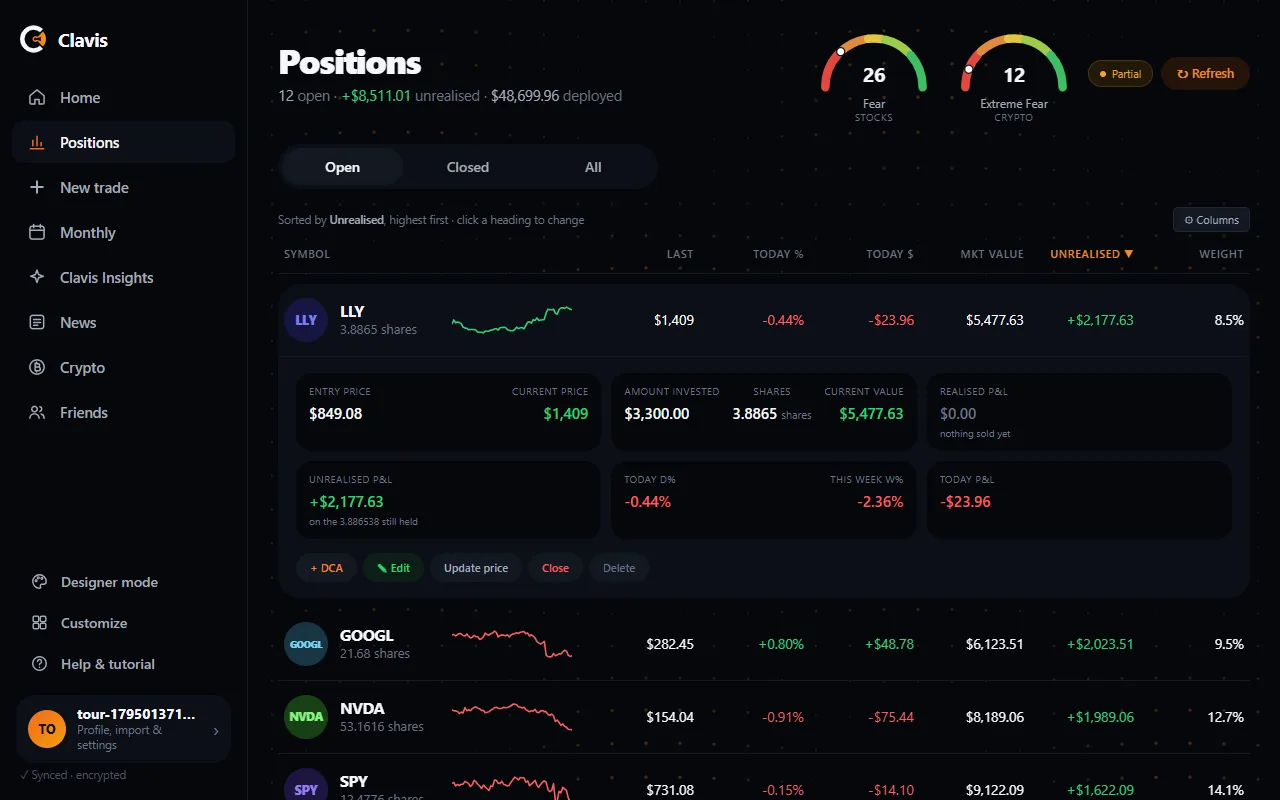
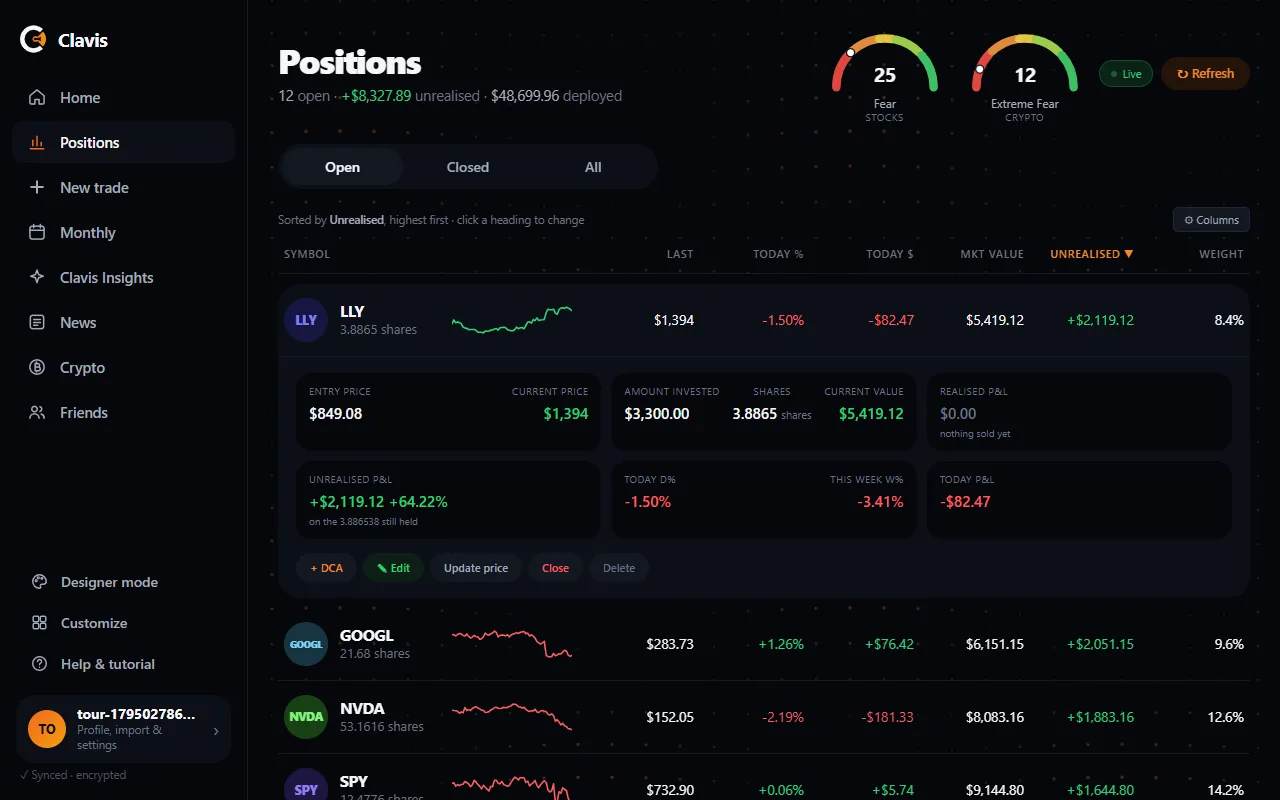
feat: the fox guides the app; phone Home tidied; % on unrealised P&L
Clavis the fox now appears where the brand brief puts the guide, from one
shared drawing (ui/art/fox.js): the analyst and Your feedback in Clavis
Insights, the state-of-mind question, empty screens (no holdings, no closed
trades), the guest welcome and the tutorial. Never beside losses, core
numbers, money or security.

Phone Home: fear & greed at the top and smaller, as on Positions; the
allocation ring smaller, and it no longer restarts its spin-in animation on
every price refresh (it looked half drawn). An opened position shows its
unrealised P&L in % beside the dollars. Settings no longer offers data keys
on the website, and keys saved earlier are not used there.

diff --git a/styles/clavis.css b/styles/clavis.css
@@ -389,7 +389,7 @@ body.landing-open{overflow:hidden}
 #allocCard .alloc-pct{margin-left:auto;color:var(--text);font-weight:700}
 @media (max-width:720px){
   #allocCard{width:100%;margin-top:6px}
-  #allocCard .alloc-chart{width:150px;height:150px}
+  #allocCard .alloc-chart{width:118px;height:118px}
 }
 
 /* ── Monthly ── */
@@ -438,7 +438,7 @@ body.landing-open{overflow:hidden}
   /* Home: one column, in the mock-up's order. */
   #home.page.active{display:flex;flex-direction:column;gap:18px}
   #home .hero{order:1;margin:0}
-  #home #homeTopbar{order:2;margin:0}
+  #home #homeTopbar{order:0;margin:0}
   #home .kpi-row{order:3;margin:0}
   #homeHoldings{order:4}
   #home .hero-value{font-size:48px}
@@ -638,3 +638,36 @@ body.landing-open{overflow:hidden}
 
 /* Settings: your own data keys, folded away on the website */
 .set-keys summary{cursor:pointer;font-size:13px;font-weight:600;color:var(--text2);margin:6px 0 10px}
+
+/* Phones: fear & greed sits at the top of Home, as on Positions, and smaller;
+   the allocation ring is smaller too. */
+@media (max-width:720px){
+  #homeTopbar{display:flex!important;align-items:center;justify-content:space-between;gap:8px;flex-wrap:wrap}
+  #homeTopbar .topbar-right{display:flex!important;width:100%;align-items:center;justify-content:space-between;gap:8px}
+  #homeTopbar .gauges{order:0;gap:4px}
+  #homeTopbar .live-pill{order:1;margin-left:auto}
+  #homeTopbar .topbar-btn-warn{order:2}
+  .gauges .gauge{width:70px;height:38px}
+  .gauges .gauge-mood{font-size:10.5px}
+  .gauges .gauge-name{font-size:8.5px}
+  #allocCard .alloc-count b{font-size:12.5px}
+  #allocCard .alloc-count span{font-size:10px}
+  #allocCard .alloc-legend{font-size:11.5px}
+}
+
+/* ── Clavis the fox, the guide inside the app (ui/art/fox.js) ── */
+.fox-mark{display:block;color:var(--text);flex:none}
+.hero-mark.hero-fox{display:inline-grid;place-items:center;width:34px;height:34px;border-radius:50%;background:color-mix(in srgb,var(--accent) 14%,transparent);margin-right:4px}
+.hero-mark.hero-fox .fox-mark{width:22px;height:22px}
+.fb-title{display:flex;align-items:center;gap:10px}
+.fox-empty{display:flex;flex-direction:column;align-items:center;text-align:center;gap:6px;padding:34px 16px}
+.fox-empty .fox-mark{color:var(--text2);margin-bottom:6px}
+.fox-empty-t{font-size:16px;font-weight:700;color:var(--text)}
+.fox-empty-s{font-size:13.5px;color:var(--text3);max-width:320px;line-height:1.5}
+.fox-empty .pos-empty-cta{margin-top:12px}
+.mind-ask{display:flex!important;align-items:center;gap:10px}
+.mind-fox .fox-mark{color:var(--text2)}
+.guest-fox{display:inline-grid;margin-right:8px;color:var(--a-text,var(--text))}
+.guest-fox .fox-mark{color:inherit}
+.tour-step{display:inline-flex;align-items:center;gap:8px}
+.tour-fox .fox-mark{width:20px;height:20px;color:inherit}

diff --git a/src/ui/art/fox.js b/src/ui/art/fox.js
@@ -1,0 +1,47 @@
+/**
+ * Clavis the fox (November 2026): the guide inside the app.
+ *
+ * One drawing everywhere — a single-weight line fox head with the orange
+ * keyhole outline on its forehead, the mark from the brand brief. The C with
+ * the keyhole is the company's logo; the fox is never used as the logo.
+ *
+ * Where it may appear (the brief): onboarding and the tutorial, empty
+ * screens, Insights' takeaways, milestones and the state-of-mind question.
+ * Never beside losses or drawdowns, the core numbers, money movement or
+ * security.
+ */
+let uid = 0;
+
+/**
+ * The fox as inline SVG. `size` in pixels; `line` the outline colour
+ * (currentColor by default, so it follows the text around it); `eyes` may
+ * carry a mood colour, as the brand sheet's "Ahead" signal does.
+ */
+export function foxSvg(size = 28, { line = 'currentColor', eyes = null, label = null } = {}) {
+  const id = `fx${uid++}`;
+  const w = size >= 64 ? 6 : size >= 32 ? 8 : 10;
+  const e = eyes ?? line;
+  const a11y = label ? `role="img" aria-label="${label}"` : 'aria-hidden="true"';
+  return `<svg class="fox-mark" width="${size}" height="${size}" viewBox="14 10 172 162" fill="none" stroke-linecap="round" stroke-linejoin="round" ${a11y}>
+    <defs><linearGradient id="${id}" x1="0" y1="0" x2="1" y2="1"><stop offset="0" stop-color="#F59E0B"/><stop offset="1" stop-color="#F26A1E"/></linearGradient></defs>
+    <path d="M50 20 L82 54 L118 54 L150 20 L158 80 L168 110 L136 126 L110 154 L100 162 L90 154 L64 126 L32 110 L42 80 Z" stroke="${line}" stroke-width="${w}"/>
+    <path d="M32 110 Q62 106 80 118 L100 138 L120 118 Q138 106 168 110" stroke="${line}" stroke-width="${w * 0.6}" opacity=".5"/>
+    <path d="M64 88 L84 95" stroke="${e}" stroke-width="${w * 0.9}"/><path d="M136 88 L116 95" stroke="${e}" stroke-width="${w * 0.9}"/>
+    <path d="M95 149 L105 149 L100 156 Z" fill="${line}" stroke="${line}" stroke-width="3"/>
+    <path d="M98 72.6 A5 5 0 1 1 102 72.6 L104 82 L96 82 Z" stroke="url(#${id})" stroke-width="${Math.max(4, w * 0.6)}"/>
+  </svg>`;
+}
+
+/** An empty screen with the fox: a short title and one line of what to do. */
+export function foxEmpty(title, line, action = '') {
+  return `<div class="fox-empty">${foxSvg(56)}<div class="fox-empty-t">${title}</div><div class="fox-empty-s">${line}</div>${action}</div>`;
+}
+
+/** Fill every [data-fox=size] in the page with the fox, once. */
+export function paintFoxes(root = document) {
+  root.querySelectorAll?.('[data-fox]').forEach((node) => {
+    if (node.dataset.painted) return;
+    node.innerHTML = foxSvg(Number(node.dataset.fox) || 28);
+    node.dataset.painted = '1';
+  });
+}

diff --git a/src/ui/views/insights.js b/src/ui/views/insights.js
@@ -14,6 +14,7 @@
 import { state } from '../../core/store.js';
 import { analyse, MIN_GROUP, MIN_TRADES, FAMILIES as FAMILY_LIST, TITLES, TITLE_RULES, LEVELS } from '../../core/insights.js';
 import { art } from '../art/cards.js';
+import { foxSvg } from '../art/fox.js';
 import { accountTotals } from '../../core/portfolio.js';
 import { authoritativeHistory, portfolioHistory } from '../../core/snapshots.js';
 import { benchmarkSeries, benchmarkSpot, benchmarkYearToDate } from '../../services/benchmark.js';
@@ -247,7 +248,7 @@ function summaryHtml(a) {
     : '';
   return `<section class="card ins-hero${year ? ' has-year' : ''}">
       <div class="hero-main">
-        <div class="hero-head"><span class="hero-mark">✦</span><span>Your analyst</span></div>
+        <div class="hero-head"><span class="hero-mark hero-fox">${foxSvg(26)}</span><span>Clavis · your analyst</span></div>
         <p class="hero-text">${safe(a.summary)}</p>
       </div>
       ${year}
@@ -276,9 +277,9 @@ function feedbackHtml(a) {
       ${f[key].length ? `<ul>${f[key].map(item).join('')}</ul>` : '<p class="fb-empty">Nothing here yet. More trades will fill it in.</p>'}
     </div>`;
   return `<section class="ins-feedback">
-      <h2 class="ins-group">Your feedback</h2>
+      <h2 class="ins-group fb-title">${foxSvg(30)}<span>Your feedback</span></h2>
       <p class="fb-lead">Facts from your own trades: what is working, what to work on, and what the data teaches. It describes your process; it never says what to buy or sell.</p>
-      ${total ? `<div class="fb-cols" style="--fb-n:${FEEDBACK_COLS.filter(([k]) => f[k].length).length}">${FEEDBACK_COLS.filter(([k]) => f[k].length).map(col).join('')}</div>` : '<p class="fb-empty">Your feedback appears once you have a few closed trades and some history.</p>'}
+      ${total ? `<div class="fb-cols" style="--fb-n:${FEEDBACK_COLS.filter(([k]) => f[k].length).length}">${FEEDBACK_COLS.filter(([k]) => f[k].length).map(col).join('')}</div>` : `<div class="fox-empty">${foxSvg(56)}<div class="fox-empty-t">Your feedback is on its way</div><div class="fox-empty-s">It appears once you have a few closed trades and some history.</div></div>`}
     </section>`;
 }
 

diff --git a/index.html b/index.html
@@ -421,7 +421,7 @@
           </div>
           <!-- How the trader felt taking it, 1 emotional to 10 confident (src/core/mind.js). Optional. -->
           <div class="fg mind-fg" style="grid-column:1/-1">
-            <label>State of mind at entry <span class="mind-opt">optional</span></label>
+            <label class="mind-ask"><span class="mind-fox" data-fox="30"></span><span>State of mind at entry <span class="mind-opt">optional</span></span></label>
             <div class="mind-scale" id="f-mind" role="radiogroup" aria-label="State of mind at entry, from 1 emotional to 10 confident"><button type="button" class="mind-pick" data-mind="1" role="radio" aria-checked="false" onclick="setMind(1)">1</button><button type="button" class="mind-pick" data-mind="2" role="radio" aria-checked="false" onclick="setMind(2)">2</button><button type="button" class="mind-pick" data-mind="3" role="radio" aria-checked="false" onclick="setMind(3)">3</button><button type="button" class="mind-pick" data-mind="4" role="radio" aria-checked="false" onclick="setMind(4)">4</button><button type="button" class="mind-pick" data-mind="5" role="radio" aria-checked="false" onclick="setMind(5)">5</button><button type="button" class="mind-pick" data-mind="6" role="radio" aria-checked="false" onclick="setMind(6)">6</button><button type="button" class="mind-pick" data-mind="7" role="radio" aria-checked="false" onclick="setMind(7)">7</button><button type="button" class="mind-pick" data-mind="8" role="radio" aria-checked="false" onclick="setMind(8)">8</button><button type="button" class="mind-pick" data-mind="9" role="radio" aria-checked="false" onclick="setMind(9)">9</button><button type="button" class="mind-pick" data-mind="10" role="radio" aria-checked="false" onclick="setMind(10)">10</button></div>
             <div class="mind-ends"><span>1 · Emotional / greedy</span><span>Hesitant</span><span>Confident · 10</span></div>
             <div class="mind-now" id="f-mindNow">Not rated — how calm and sure of your plan are you?</div>

diff --git a/src/ui/views/positions.js b/src/ui/views/positions.js
@@ -1,4 +1,5 @@
 /** The Positions page: summary tiles, then open and closed position cards. */
+import { foxEmpty } from '../art/fox.js';
 import { state } from '../../core/store.js';
 import { unreal, costOf, realized } from '../../core/portfolio.js';
 import {
@@ -49,7 +50,7 @@ export function renderPositions() {
     keepOpenPanels(openEl, () => {
       openEl.innerHTML = open.length
         ? `<div class="hc-cards" style="${gridStyle(layout)}">${headerHtml('positions', layout)}${sortByLayout(open, layout, ctx).map((p) => positionCard(p, true, state.positions, { layout, ctx })).join('')}</div>`
-        : '<div class="pos-empty-state"><div class="pos-empty-title">No open positions yet</div><div class="pos-empty-sub">Log a trade to start tracking your portfolio</div><button class="btn btn-blue pos-empty-cta" onclick="show(\'add\')">+ Log your first trade</button></div>';
+        : foxEmpty('No open positions yet', 'Log your first trade, or import the file from your broker.', '<button class="btn btn-blue pos-empty-cta" onclick="show(\'add\')">+ Log your first trade</button>');
     });
   }
 
@@ -58,7 +59,7 @@ export function renderPositions() {
     keepOpenPanels(closedEl, () => {
       closedEl.innerHTML = closed.length
         ? closedByMonth(closed, new Set(open.map((p) => p.ticker))).map(monthGroup).join('')
-        : '<div class="empty">No closed trades</div>';
+        : foxEmpty('No closed trades yet', 'When you sell, the trade lands here with what it made.');
     });
   }
 }

diff --git a/src/ui/views/guest.js b/src/ui/views/guest.js
@@ -9,6 +9,7 @@
  */
 import { state, onJournalLoaded } from '../../core/store.js';
 import { isGuest } from '../../core/profiles.js';
+import { foxSvg } from '../art/fox.js';
 import { openTour } from './tour.js';
 import { openCreateAccount } from './lockScreen.js';
 
@@ -16,7 +17,7 @@ const el = (id) => document.getElementById(id);
 
 /** The notice on the way in. Exported for the tests. */
 export function guestNoticeHtml() {
-  return `<div class="guest-head"><span class="about-mark">CLAVIS</span><span class="about-sec">Guest visit</span></div>
+  return `<div class="guest-head"><span class="guest-fox">${foxSvg(40)}</span><span class="about-mark">CLAVIS</span><span class="about-sec">Guest visit</span></div>
     <h3 class="guest-title" id="guestTitle">You are exploring as a guest</h3>
     <p class="guest-text">This is a sample portfolio, so you can see how Clavis works. Try anything: add a trade, import a file, change the settings.</p>
     <div class="guest-warn" role="note"><b>Nothing is saved.</b> When you leave or reload the page, everything you did here is gone.</div>

diff --git a/src/ui/views/home.js b/src/ui/views/home.js
@@ -32,6 +32,7 @@ import { splitEvents } from '../../core/splits.js';
 import { appTradeEvents } from '../../core/appTrades.js';
 import { dayBreakdown } from '../../core/dayBreakdown.js';
 import { renderDailyLog } from './dailyLog.js';
+import { foxEmpty } from '../art/fox.js';
 import { allSplits, historyGaps, gapInWindow, openingMarksByYear } from '../../features/statementLibrary.js';
 import { onJournalLoaded, combinedJournals, handEnteredFlows } from '../../core/store.js';
 import { chainedBrokerReturn } from '../../features/statementLibrary.js';
@@ -1025,7 +1026,7 @@ export function renderHome() {
   if (list) {
     list.innerHTML = totals.open.length
       ? holdingsList(totals.open)
-      : '<div class="empty">No open positions</div>';
+      : foxEmpty('No holdings yet', 'Add a trade with the orange + button, or import the file from your broker.');
   }
   bindColumns(document.getElementById('homeHoldings'), 'home', () => renderHome());
   const bar = document.getElementById('homeColsBar');

diff --git a/src/ui/views/tour.js b/src/ui/views/tour.js
@@ -8,6 +8,7 @@
  * The pictures are assets/tour-*.webp and where their buttons sit is
  * tourShots.js, both written by scripts/tour-shots.mjs from the same screens.
  */
+import { foxSvg } from '../art/fox.js';
 import { state, setTourSeen, aboutDue, legalDue, onJournalLoaded } from '../../core/store.js';
 import { isUnlocked, isGuest } from '../../core/profiles.js';
 import { cloudEnabled } from '../../services/cloud.js';
@@ -207,7 +208,7 @@ export function slideHtml(i) {
   const s = SLIDES[i];
   const last = i === SLIDES.length - 1;
   return `<div class="tour-head">
-      <span class="tour-step">${i + 1} of ${SLIDES.length}</span>
+      <span class="tour-step"><span class="tour-fox">${foxSvg(22)}</span>${i + 1} of ${SLIDES.length}</span>
       <button class="tour-skip" data-tour-close>${last ? 'Close' : 'Skip tutorial'}</button>
     </div>
     <div class="tour-stage" data-tour-stage>

diff --git a/src/ui/views/monthly.js b/src/ui/views/monthly.js
@@ -6,6 +6,7 @@
  * stay out until their last exit, which is what keeps the monthly totals equal
  * to money actually taken off the table.
  */
+import { foxEmpty } from '../art/fox.js';
 import { state } from '../../core/store.js';
 import { realized, costOf, pctD, avgTradeReturn, outcomeOf } from '../../core/portfolio.js';
 import { monthlyReturns } from '../../core/portfolioHistory.js';
@@ -150,7 +151,7 @@ function renderSummaryTable() {
   const keys = Object.keys(trades).sort().reverse();
 
   if (!keys.length) {
-    body.innerHTML = '<tr><td colspan="5"><div class="empty">No closed trades yet</div></td></tr>';
+    body.innerHTML = `<tr><td colspan="5">${foxEmpty('No closed trades yet', 'Each month you sell something, it appears here with what it made.')}</td></tr>`;
     return;
   }
 

diff --git a/src/ui/views/positionCard.js b/src/ui/views/positionCard.js
@@ -67,7 +67,7 @@ function pnlSplit(p, unrealised, positions) {
       <div class="dgi-v" style="color:${muted ? 'var(--text3)' : clr(banked)}">${muted ? '$0.00' : $s(+banked.toFixed(2))}</div>
       <div style="font-size:10px;color:var(--text3);margin-top:3px">${muted ? 'nothing sold yet' : 'on shares already sold'}</div></div>
     <div class="dgi"><div class="dgi-k">Unrealised P&L</div>
-      <div class="dgi-v" style="color:${clr(unrealised)}">${$s(+unrealised.toFixed(2))}</div>
+      <div class="dgi-v" style="color:${clr(unrealised)}">${$s(+unrealised.toFixed(2))}${costOf(p) ? ` <span class="dgi-pct">${fp(pctD(unrealised, costOf(p)))}</span>` : ''}</div>
       <div style="font-size:10px;color:var(--text3);margin-top:3px">on the ${held} still held</div></div>`;
 }
 

diff --git a/src/main.js b/src/main.js
@@ -36,6 +36,7 @@ import { initParticleWave } from './features/particleWave.js';
 import { describeStorageMode } from './ui/views/settings.js';
 import { checkForRecoveredJournal, setRecoveryImportHandler } from './features/recoveryBanner.js';
 import { installActions, refreshPrices, setTimeframe } from './app/actions.js';
+import { paintFoxes } from './ui/art/fox.js';
 
 /** Background loops, so they can be stopped on sign out. */
 let timers = [];
@@ -151,6 +152,8 @@ function pollPrices() {
 
 async function boot() {
   initTheme();
+  // The fox wherever the page asks for it (data-fox), drawn once from one source.
+  paintFoxes();
 
   installActions({ signOut });
   setPageEnterHandler(renderOnPageEnter);

diff --git a/src/ui/charts.js b/src/ui/charts.js
@@ -256,6 +256,9 @@ export function renderSectorChart(rows) {
   const canvas = document.getElementById('sectorChart');
   if (!canvas) return;
 
+  // Redrawn on every price refresh: only the first drawing spins in, or the
+  // ring would restart its animation every few seconds and look half drawn.
+  const first = !charts.sector;
   charts.sector?.destroy();
   if (!rows.length) return;
 
@@ -276,6 +279,7 @@ export function renderSectorChart(rows) {
       responsive: true,
       maintainAspectRatio: false,
       cutout: '76%',
+      animation: first ? undefined : false,
       layout: { padding: 2 },
       plugins: {
         legend: { display: false },
